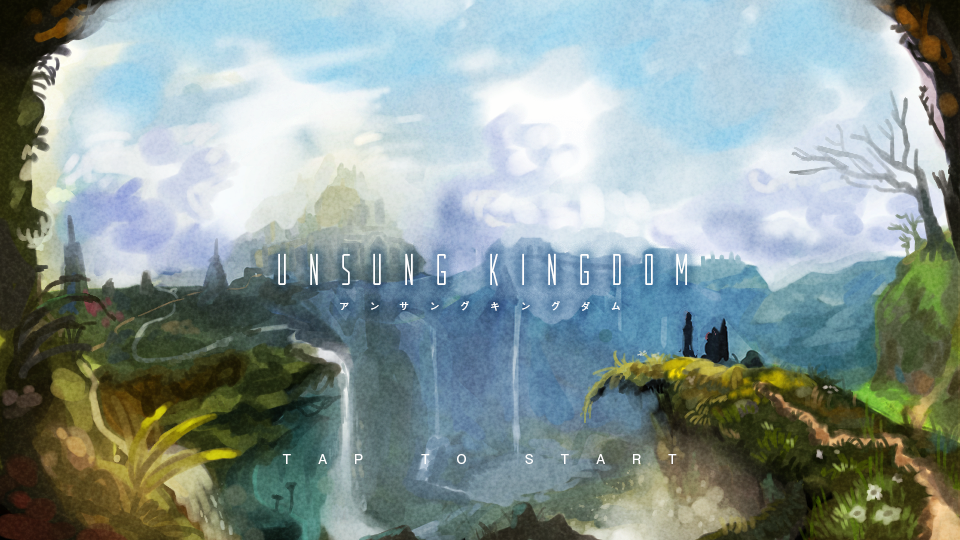
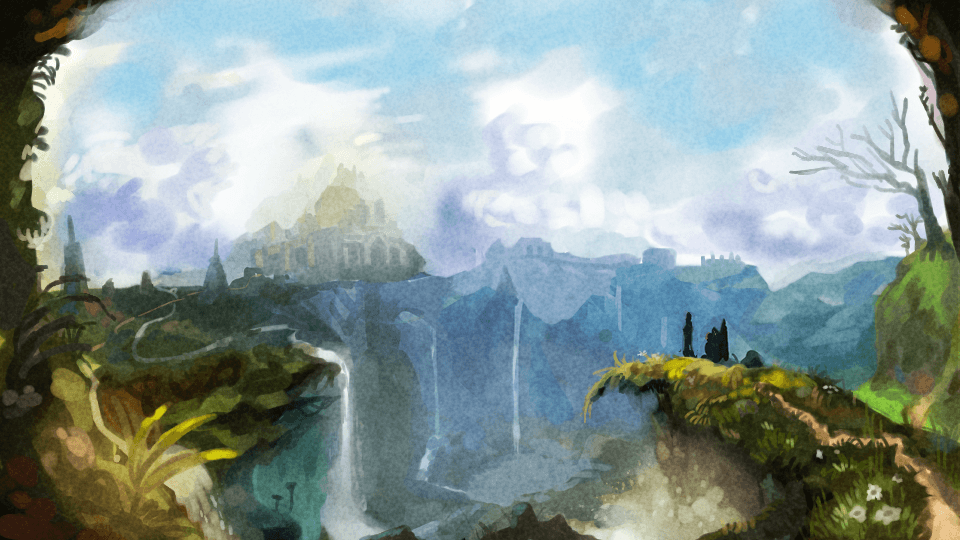
title design

diff --git a/src/class/TitleScene.js b/src/class/TitleScene.js
@@ -14,10 +14,9 @@ export default class TitleScene extends Phaser.Scene {
     this.storage = storage
     this.storage.init()
     const background = this.add.sprite(0, 0, 'title').setOrigin(0, 0)
-    const startButton = this.getStartButton()
+    this.add.sprite(config.WIDTH.half, 270, 'title_logo')
+    this.getStartButton()
     background.setInteractive().on('pointerup', () => {
-      background.removeInteractive()
-      startButton.destroy()
       this.initContents()
     })
     // this.logo()
@@ -58,20 +57,28 @@ export default class TitleScene extends Phaser.Scene {
     return new Promise(resolve => setTimeout(resolve, time))
   }
   getStartButton () {
-    const text = this.add.text(config.WIDTH.half, (100).byBottom, 'T A P  T O  S T A R T', { align: 'center', fontSize: 16, fontFamily: config.FONTS.UI })
+    const text = this.add.sprite(config.WIDTH.half, (70).byBottom, 'taptostart')
     this.add.tween({ targets: text, duration: 600, alpha: 0.5, yoyo: true, loop: -1 })
     return text
   }
   initContents () {
-    const bgBlur = this.add.sprite(0, 0, 'title_blur').setOrigin(0, 0)
+    const bgBlur = this.add.sprite(0, 0, 'title_blur').setOrigin(0, 0).setInteractive()
     fadeIn(this, bgBlur)
-    this.add.rectangle(0, 0, config.WIDTH, config.HEIGHT, config.COLORS.black).setOrigin(0, 0).setAlpha(0.5)
+    const dark = this.add.rectangle(0, 0, config.WIDTH, config.HEIGHT, config.COLORS.black).setOrigin(0, 0).setAlpha(0.5)
+    this.subLogo = this.add.sprite(25, 25, 'logo').setOrigin(0, 0).setScale(0.5, 0.5)
+    const close = () => {
+      fadeOut(this, bgBlur)
+      this.list.forEach(v => v.destroy())
+      this.subLogo.destroy()
+      dark.destroy()
+    }
     this.list = [
       { text: 'New Game', callback: this.newGame },
       { text: 'Continue', callback: this.loadData },
-      { text: 'Settings', callback: this.settings }
+      { text: 'Settings', callback: this.settings },
+      { text: 'Close', callback: close }
     ].map((v, i) => {
-      const row = new Button(this, config.WIDTH.half, (360).byBottom + i * 120, v.text, 420, 90, { fontSize: 22 }).on('click', v.callback.bind(this))
+      const row = new Button(this, config.WIDTH.half, (400).byBottom + i * 100, v.text, 420, 70, { fontSize: 17 }).on('click', v.callback.bind(this))
       this.add.existing(row)
       return row
     })
@@ -92,6 +99,7 @@ export default class TitleScene extends Phaser.Scene {
     this.scene.sleep('Title')
   }
   subContent (content) {
+    this.subLogo.setVisible(false)
     this.list.forEach(v => v.setVisible(false))
     const window = this.add.polygon(0, 0, [[0, 0], [(50).byRight, 0], [(150).byRight, (0).byBottom], [0, (0).byBottom]], config.COLORS.black, 0.7).setOrigin(0, 0)
     this.add.existing(window)
@@ -100,6 +108,7 @@ export default class TitleScene extends Phaser.Scene {
     const close = new UICloseButton(this, (70).byRight, (35).byBottom).on('click', () => {
       slideOut(this, [close], { x: 100 })
       slideOut(this, [content, window], { x: -100 })
+      this.subLogo.setVisible(true)
       this.list.forEach(v => v.setVisible(true))
     })
     this.add.existing(close)
